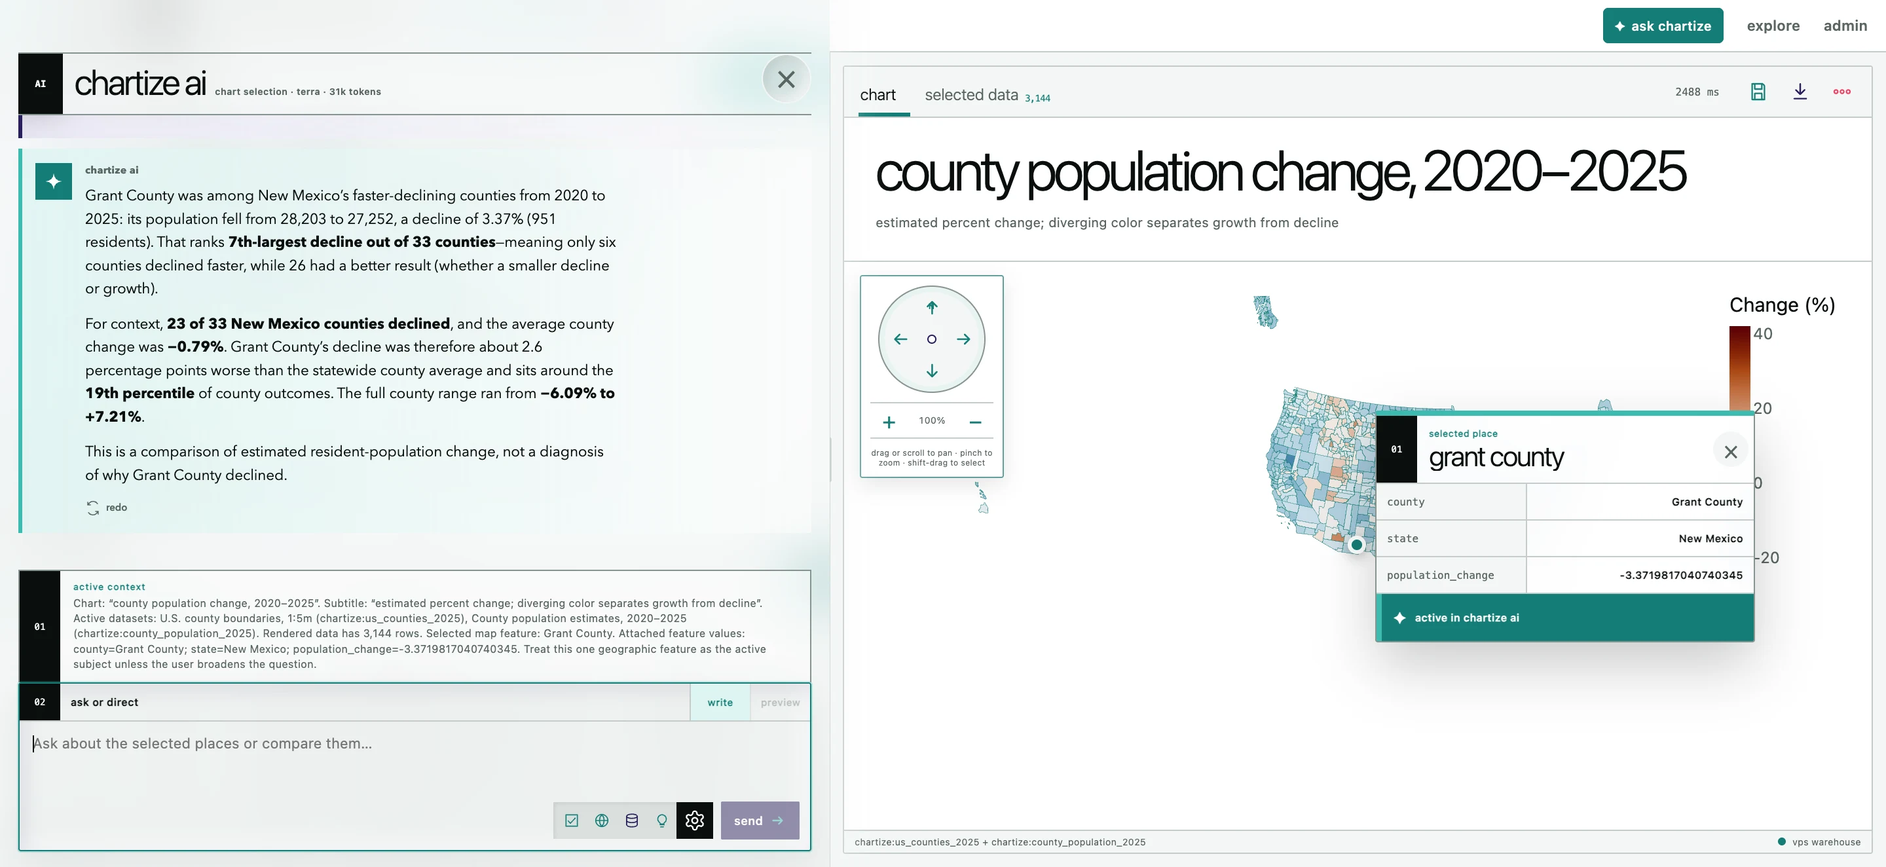
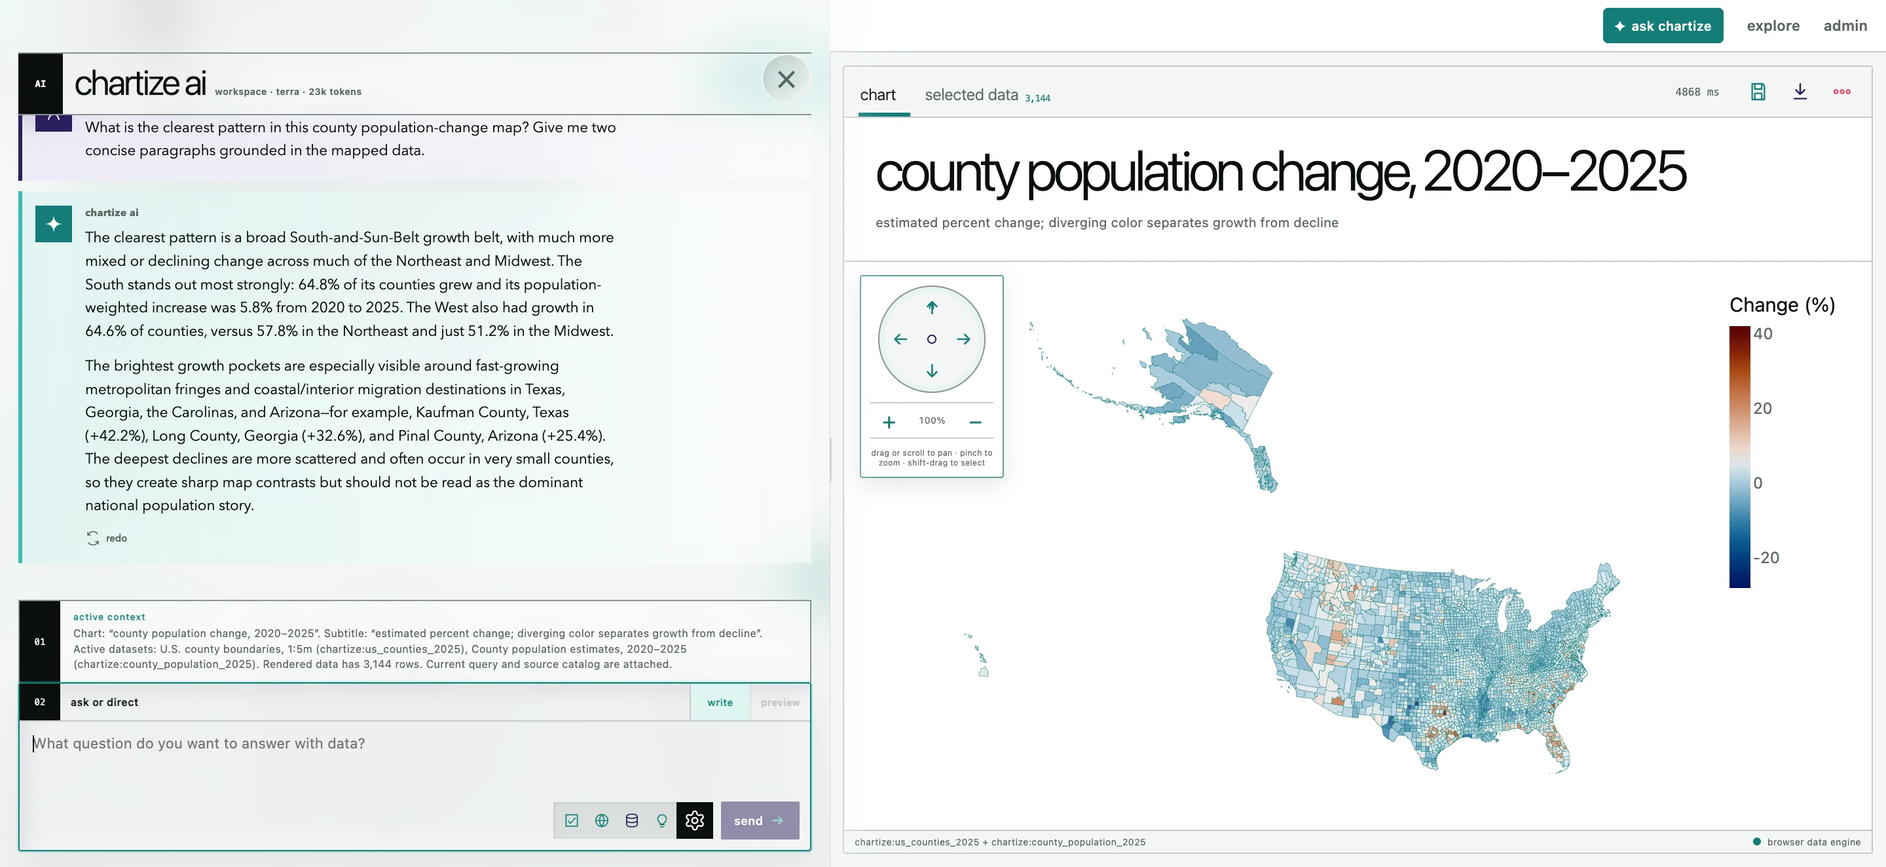
docs: describe the local-first Chartize boundary
Document worker-owned Dexie storage, mutable per-workspace data, the read-only artifact service, browser acceptance evidence, and the VPS preview flow. Refresh the workspace and grounded-AI screenshots.

diff --git a/README.md b/README.md
@@ -1,34 +1,38 @@
 # Chartize
 
-A self-hosted data warehouse and GGSQL visualization workspace. It combines a native DuckDB/GGSQL service for published data with a browser-local GGSQL WASM path for private files.
+Chartize is a self-hosted, local-first GGSQL visualization studio for civic, polling, Census, election, economic, and geographic data.
 
-The explorer—not a promotional homepage—is the product surface. It is a cursor-led DWIM workspace: Monaco GGSQL stays primary, while sources, fields, visual parameters, table ranges, and chart ranges expose contextual controls at the selection. The raw source stream, query result, and chart remain visible in three resizable panes. It also supports Vega-Lite rendering, PNG/SVG/share-card export, local workspace persistence, warehouse queries, and opt-in AI assistance.
+The explorer is the product surface. Monaco GGSQL stays primary while sources, fields, visualization parameters, table ranges, chart ranges, and map features expose contextual controls around the current selection. The code, source table, and rendered result live in three resizable panes.
 
 ![Chartize workspace with GGSQL, source data, and a linked chart](./docs/images/chartize-workspace.webp)
 
-## Execution boundary
+## Local-first execution
 
-| Input | Where it is stored | Where GGSQL runs |
+| Input | Storage | Execution |
 | --- | --- | --- |
-| Published Census, polling, election, or geographic datasets | Versioned Parquet plus provenance files on the VPS | Native Rust GGSQL + DuckDB on the VPS |
-| Visitor CSV, TSV, JSON/NDJSON, Parquet, GeoJSON, or zipped Shapefile | Browser memory; IndexedDB only after **Save local** | GGSQL WASM in a Web Worker |
-| AI query generation | Only schema by default; up to 20 preview rows after opt-in | Next.js server route using OpenAI or Azure OpenAI |
-| Multimodal chart critique | Rendered chart and query after a confirmation dialog | Next.js server route |
+| Published datasets | Canonical, versioned Parquet on the VPS; exact artifact bytes retained by worker-owned Dexie/IndexedDB | `ggsql-wasm` in a Web Worker |
+| Visitor CSV, TSV, JSON/NDJSON, Parquet, GeoJSON, or zipped Shapefile | Worker-owned Dexie/IndexedDB, private to this browser | The same browser worker |
+| Derived tables and mutations | An isolated, mutable engine context for each workspace | The same browser worker |
+| AI visualization or analysis request | One conversation per workspace; schema and enabled context are relayed to the model | Any requested data query runs in the browser, then its bounded result returns to the AI relay |
 
-The server is not merely a file API. It executes shared queries, enforces read-only policy, owns catalog metadata, profiles imports, publishes stable views, and rolls datasets back between immutable versions.
+React and Zustand do not know that IndexedDB or the data service exists. They send typed commands to one browser worker. When GGSQL first references `chartize:<slug>`, that worker resolves the catalog version, checks Dexie, downloads the exact Parquet artifact only when missing, stores it, and registers a copy in the active workspace's engine context. Subsequent workspaces and sessions reuse the canonical bytes locally. A workspace may freely create, update, rename, or derive local tables without changing that baseline or another workspace.
 
-Chartize AI is one workspace-scoped Terra conversation, not a separate generator bolted onto each pane. Cursor ranges, selected rows, and individual geographic features can become its active context; with permission it can query bounded warehouse data or use grounded web search.
+The Rust service has a deliberately small public surface: catalog metadata, exact dataset-version downloads, and steward-only ingestion and rollback. It never accepts arbitrary SQL from the browser or from Chartize AI.
 
-![Chartize AI comparing a selected county with its statewide peers](./docs/images/chartize-ai-county-context.webp)
+Chartize AI is a workspace-scoped Terra conversation. It receives the active query, chart description, catalog schemas, and user-enabled selection context. If it needs exact values, it emits a bounded data request; the worker runs it in the same workspace engine and continues the model turn. Generated GGSQL is tried locally, and an engine diagnostic can trigger up to two bounded repair passes.
+
+![Chartize AI explaining a county population-change map with browser-grounded statistics](./docs/images/chartize-ai-county-context.webp)
 
 ## Stack
 
-- Frontend: Next.js 16, React 19, Monaco, Vega/Vega-Lite, `ggsql-wasm`, and a Zod-inferred Zustand workspace store
-- Browser conversion: `hyparquet-writer`, a GeoJSON-to-WKB encoder, and `shpjs`
-- Warehouse API: Rust, Axum, GGSQL 0.4.1, DuckDB
-- Storage: one DuckDB catalog plus Zstd-compressed Parquet and original provenance files under `data/`
-- AI: one Responses API conversation per workspace, using `gpt-5.6-terra`; optional Azure OpenAI deployment
-- Deployment: Docker Compose and Caddy on a single VPS
+- Next.js 16, React 19, Monaco, Vega/Vega-Lite, Vanilla Extract
+- Zod-validated Zustand workspace documents and actions
+- `ggsql-wasm` plus an in-browser SQL engine in a Web Worker
+- Dexie/IndexedDB, owned only by the worker, for canonical Parquet bytes, local uploads, catalog metadata, and saved workspace documents
+- Rust and Axum for catalog, typed Parquet delivery, imports, profiling, and rollback
+- DuckDB only inside the steward service for ingestion/catalog metadata; normalized datasets are Parquet
+- OpenAI Responses API with `gpt-5.6-terra`
+- Docker Compose with Caddy, or host Nginx with Basic Auth, on one VPS
 
 ## Run locally
 
@@ -41,69 +45,59 @@ pnpm fetch:spatialite
 ADMIN_TOKEN=local-dev-token pnpm dev
 ```
 
-Open `http://localhost:3000/explore`. The engine listens on `127.0.0.1:8787`; use `local-dev-token` on `/admin`. The built-in penguins source works without importing data or configuring AI.
+Open `http://localhost:3000/explore`. The data service listens on `127.0.0.1:8787`; use `local-dev-token` on `/admin`.
 
-In a second terminal, publish the six-dataset starter warehouse:
+In a second terminal, publish the starter datasets:
 
 ```bash
 ADMIN_TOKEN=local-dev-token pnpm data:seed
 ```
 
-The penguins entry is an embedded GGSQL engine smoke test, not warehouse data. The full prioritized acquisition list and refresh notes are in [`datasets/README.md`](./datasets/README.md).
+The embedded penguins table is an engine smoke test, not a published dataset. The acquisition list and refresh notes are in [`datasets/README.md`](./datasets/README.md).
 
-For AI, put `OPENAI_API_KEY` in the environment used by Next.js. For Azure set `AI_PROVIDER=azure` and supply the Azure endpoint, key, deployment name, and supported API version. A deployment name is not a universal model entitlement: confirm the model is available in the Azure region/subscription before depending on student credits.
+For AI, set `OPENAI_API_KEY` in the environment used by Next.js. The key remains server-side. The browser receives only the structured AI result; the AI route receives bounded browser query results only when the enabled data-access option permits them.
 
-## VPS deployment
+## VPS preview
 
 ```bash
 cp .env.example .env
-# Set a long random ADMIN_TOKEN, SITE_ADDRESS, and optionally an AI provider key.
+# Set a long ADMIN_TOKEN, SITE_ADDRESS, and OPENAI_API_KEY.
 docker compose up --build -d
 ```
 
-Set `SITE_ADDRESS=studio.example.com` for automatic HTTPS. Only Caddy is public; the warehouse engine remains inside the Compose network and the web server proxies `/engine/*` at runtime.
+Set `SITE_ADDRESS=studio.example.com` for Caddy-managed HTTPS. For host Nginx and Basic Auth, follow [`docs/VPS_DEPLOYMENT.md`](./docs/VPS_DEPLOYMENT.md).
 
-For a preview subdomain behind host Nginx and Basic Auth, use [`docs/VPS_DEPLOYMENT.md`](./docs/VPS_DEPLOYMENT.md). It includes the archive/copy flow, private Compose services, one-shot warehouse seeding, TLS, credentials, backups, and updates.
-
-The default 70 GB VPS layout is deliberately simple:
+The storage layout fits a single 70 GB VPS:
 
 ```text
 data/
-  warehouse.duckdb
+  chartize.duckdb
   datasets/<slug>/<version>/
     <original upload>
     data.parquet
 ```
 
-Back up `data/` as one unit. Imports refuse to begin unless there is room for the upload, normalized copy, and a 500 MB reserve. Set `MAX_IMPORT_BYTES` below your reverse-proxy limit.
+Back up `data/` as one unit. Imports retain the original, normalize a canonical version to Parquet, profile it, and atomically activate that version. Rollback reactivates the previous version without deleting either copy. These published files are baselines; browser workspaces remain independently mutable.
 
-## Steward workflow
+## Security boundary
 
-1. Visit `/admin` and enter `ADMIN_TOKEN`.
-2. Upload CSV/TSV, JSON/NDJSON, Parquet, GeoJSON, GeoPackage, FlatGeobuf, KML, Shapefile, or a Shapefile ZIP.
-3. Add title, stable lowercase slug, source, license, and attribution.
-4. The service saves the original, normalizes a version to Parquet, profiles its schema and row count, and atomically points the stable view at it.
-5. **Rollback** moves the view to the most recent inactive version without deleting either version.
-
-Geo formats are read with DuckDB Spatial and published with WKB geometry so GGSQL can safely move the data through Arrow.
-
-## Query and privacy safeguards
-
-- Warehouse requests must validate as GGSQL, contain a visualization, and use a single `SELECT`/`WITH` statement.
-- DDL/DML, extension loading, file readers, remote URLs, attach/copy/export operations, and pragmas are blocked in public queries.
-- The browser worker has a 100 MB per-file safety limit; the VPS limit is separately configurable.
-- AI calls use `store: false`. Row samples are omitted unless the user checks the consent control; chart images require an additional confirmation.
-- Admin imports require `x-admin-token`, entered at the steward screen and never stored by the app.
+- Public browser code can request only a catalog entry or an exact `{slug, version}` Parquet artifact.
+- `/api/query`, `/api/validate`, and `/api/ai/query-data` do not exist on the Rust service.
+- SQL and GGSQL execute in the browser worker; local derived tables and mutations cannot modify VPS data.
+- Only the worker can access Dexie or request catalog/data artifacts. React and Zustand cannot issue data-service requests.
+- The browser worker has a 100 MB per-file import guard; steward import limits are configured separately.
+- AI calls use `store: false`. Sample rows are omitted unless the user enables them.
+- Steward imports require `x-admin-token`, entered on `/admin` and not persisted by the application.
 
 ## Verification
 
 ```bash
-pnpm typecheck
-pnpm test
-pnpm build
-cargo check --manifest-path services/engine/Cargo.toml
+pnpm --filter @chartize/web typecheck
+pnpm --filter @chartize/web test
+pnpm --filter @chartize/web build
+cargo test --manifest-path services/engine/Cargo.toml
 ```
 
-The `.cargo/config.toml` uses the generated parser included with `tree-sitter-ggsql`, so a global Tree-sitter CLI is not required.
+The browser acceptance pass covers cold and warm `chartize:` loads, workspace mutation isolation, and a local CSV upload that Chartize AI cleans into a derived table before source deletion resets that workspace. The CSV path performs no catalog or dataset-artifact request.
 
-The post-pivot architecture review, resolved hazards, and remaining extraction seams are documented in [`docs/CODE_AUDIT.md`](./docs/CODE_AUDIT.md).
+The post-pivot boundary review is in [`docs/CODE_AUDIT.md`](./docs/CODE_AUDIT.md).

diff --git a/docs/CODE_AUDIT.md b/docs/CODE_AUDIT.md
@@ -1,31 +1,46 @@
 # Code audit
 
-This audit follows the rapid product pivots that produced the current DWIM workspace. The runtime now has one source of truth for workspace state, one Chartize AI conversation per workspace, and a deliberately narrow boundary between browser-private data and the VPS warehouse.
+This audit follows the product pivots that produced the current cursor-led workspace. The runtime now has one Zod-validated Zustand source of truth, one Chartize AI conversation per workspace, and one browser-worker execution path for published and visitor data.
 
 ## Current boundaries
 
-- `lib/workspace/store.ts` owns Zod-validated workspace documents and all cross-pane actions. Switching workspaces captures and restores the query, chart state, table state, selections, map viewport, pane ratios, and independent AI history.
-- `components/explorer.tsx` is the coordinator. It resolves namespaced sources, selects the local or warehouse execution path, rejects mixed-browser/server joins, and guards asynchronous results with monotonically increasing request IDs.
-- `components/chart-view.tsx` owns Vega embedding, exports, range gestures, map pan/zoom, and mark selection. It reports selections upward instead of maintaining a competing copy of workspace state.
-- `lib/ai/*` builds a compact catalog snapshot, supplies one read-only warehouse tool, runs a single stateless Responses API turn, validates structured output, and performs one focused GGSQL repair when the real engine rejects syntax.
-- `services/engine` is the authority for imports, immutable dataset versions, previews, GGSQL validation/execution, and bounded AI data queries.
+- `lib/workspace/store.ts` owns validated workspace documents and cross-pane actions: query scheduling, source and visual edits, lazy table reads, selections, AI turns, browser save/restore, and workspace switching. It calls a typed browser-runtime facade and contains no network or storage implementation.
+- `components/explorer.tsx` is a 116-line composition root. The code, table, result, AI overlay, and selection behavior live in focused `workspace-*` components; their remaining local state is ephemeral DOM/editor behavior.
+- `lib/local/browser-runtime.ts` is the main-thread boundary. It validates commands and delegates them to `LocalEngineClient`; it does not expose URLs or IndexedDB.
+- `workers/ggsql.worker.ts` is the only data execution and persistence surface used by the explorer. It owns catalog hydration, local uploads, GGSQL, SQL, workspace persistence, and AI data rounds.
+- `lib/local/worker-database.ts` owns Dexie tables for the catalog, exact canonical Parquet artifacts, local-source bytes, and saved workspace documents.
+- `lib/local/worker-source-registry.ts` resolves namespaces. `chartize:` misses request only a typed catalog or exact `{slug, version}` artifact; `user:` sources never use the data service.
+- `lib/local/workspace-engine.ts` gives every workspace its own mutable `GgsqlContext`. All workspaces may reuse the same canonical bytes, but mutations and derived tables remain isolated.
+- `components/chart-view.tsx` owns Vega embedding, exports, range gestures, map pan/zoom, and mark selection. It reports selections to Zustand rather than keeping competing workspace state.
+- `app/api/ai/query` is a structured model relay. The worker may send it bounded context and satisfy a model data request locally, but the relay cannot query VPS data directly.
+- `services/engine` owns catalog metadata, exact Parquet-version downloads, steward imports, profiling, and rollback. It has no public arbitrary-SQL route.
 
 ## Hazards removed
 
-- Pivot-era explanation/generation schemas and the separate pseudo-agent paths were removed. All AI entry points continue the same workspace conversation.
-- Component-local cross-pane state was consolidated into Zustand; persisted shapes and defaults remain Zod-validated.
-- Catalog, source-page, executed-query, and selected-feature requests are coalesced and bounded with small LRU-style caches. Failed promises evict themselves.
-- Blank workspaces no longer inherit the default presidential chart; empty GGSQL renders a neutral grid and remains a valid workspace state.
-- Stale asynchronous query, source-page, and feature-detail responses cannot overwrite a newer user action.
-- Public and AI SQL paths enforce a single read-only `SELECT`/`WITH` statement on both the Next and Rust boundaries. Mutation, extension loading, attachment, file/network readers, dynamic table readers, metadata scans, and internal catalog access are blocked.
-- Map clicks remain mark selections until pointer movement crosses the pan threshold. Normal mouse jitter neither captures the pointer nor clears the selected feature.
-- PNG and SVG exports are generated from the active Vega view and include the active title and subtitle.
+- The native and browser query split was removed. A `chartize:` reference hydrates the exact Parquet version into the same browser engine used by `user:` and embedded sources.
+- Browser-to-server raw SQL, remote validation, and server-side AI data-query routes were removed.
+- The obsolete regex read-only validator was removed. Local setup statements and mutations are allowed inside an isolated workspace without expanding server authority.
+- Query timers, async sequence guards, file registration, table caches, AI repair flow, and persistence were moved out of React callback closures and into stable Zustand actions.
+- Removing a local source resets every workspace engine that registered it, so derived tables cannot outlive their source accidentally.
+- Blank workspaces no longer inherit the default chart; empty GGSQL produces a neutral grid and remains valid.
+- Stale query, table-page, and feature-detail results cannot overwrite a newer action.
+- Map clicks remain mark selections until pointer movement crosses the pan threshold.
+- PNG and SVG exports use the active Vega view and include the title and subtitle.
+
+## Browser acceptance evidence
+
+- Cold load: the worker requested the catalog and one exact Parquet version, persisted it in Dexie, and rendered 544 selected rows.
+- Warm reload: the same workspace rendered from Dexie with no catalog or Parquet request.
+- Mutation isolation: one workspace updated an approval table by 10 points; a new workspace still read the canonical value.
+- Local CSV: a six-row file was uploaded through the UI, cleaned by Chartize AI into an idempotent derived table, and visualized. Raw casing and nulls remained visible in the source table.
+- Local deletion: removing that CSV reset its dependent workspace and blanked the chart/table. The entire upload, AI cleanup, and deletion path made no data-service request.
+- AI repair: unsupported SQL emitted during the cleanup was diagnosed by the real browser engine and repaired into the supported SQLite-like dialect.
 
 ## Remaining seams
 
-- `Explorer` is still a large coordinator. Its responsibilities are coherent, but the next maintainability pass should extract `useQueryRunner`, `useSourceDock`, and `useChartizeConversation` without introducing another state layer.
-- The global Vanilla Extract sheet is intentionally centralized while the visual language is moving quickly. Stable component groups can later move into colocated recipes.
-- Unit coverage is strong around parsing, stores, AI context/tools, caching, geometry, and presentation transforms. Pointer arbitration and portal layering are still verified with real Chrome rather than a component-browser test harness.
-- Imports are synchronous and appropriate for a single 70 GB preview VPS. Production-scale refreshes would benefit from a persistent job queue, progress records, and resumable downloads.
+- `lib/workspace/store.ts` is intentionally the large domain coordinator. New render behavior should stay in components; new engine/storage behavior should stay behind the worker protocol rather than adding another controller.
+- The centralized Vanilla Extract sheet is practical while the visual language is changing; stable component groups can later move into colocated recipes.
+- Pointer arbitration, portal layering, worker/Dexie network behavior, and AI repair are verified in real Chrome. A component-browser harness would make those regressions faster to isolate.
+- Imports are synchronous and appropriate for a five-day preview. A larger deployment would benefit from persistent jobs and resumable acquisition.
 
-These are bounded extraction opportunities rather than hidden duplicate architectures. The current implementation keeps the hackathon path simple: one browser application, one Rust engine, one DuckDB catalog, versioned Parquet artifacts, and one AI conversation model.
+The deployment remains intentionally small: one browser application, one private catalog/data service, one metadata database, versioned Parquet artifacts, and one workspace-scoped AI conversation.

diff --git a/datasets/README.md b/datasets/README.md
@@ -1,4 +1,4 @@
-# Recommended warehouse datasets
+# Recommended Chartize datasets
 
 `recommended.json` is the acquisition manifest. It separates a small automatic starter pack from larger or credentialed datasets.
 
@@ -47,8 +47,8 @@ Use `pnpm data:seed -- --all` to additionally publish CDC PLACES plus the offici
 ADMIN_TOKEN=local-dev-token pnpm data:seed -- cdc_places_county_2025
 ```
 
-The current all-automatic warehouse contains nine published sources: the six-table starter pack, CDC PLACES county health estimates, BEA county personal income, and BEA county GDP. MIT county presidential returns are CC0 but Harvard Dataverse now requires a guestbook response before it issues a download URL; complete that interaction at the DOI and import the resulting TSV through Admin. ACS API calls require a Census key, so the profile remains a curated manual follow-up rather than pretending an unauthenticated seed is reliable.
+The current automatic catalog contains nine published sources: the six-table starter pack, CDC PLACES county health estimates, BEA county personal income, and BEA county GDP. MIT county presidential returns are CC0 but Harvard Dataverse now requires a guestbook response before it issues a download URL; complete that interaction at the DOI and import the resulting TSV through Admin. ACS API calls require a Census key, so the profile remains a curated manual follow-up rather than pretending an unauthenticated seed is reliable.
 
-The command skips slugs that are already published. Add `--force` when you intentionally want to download current upstream data and create a new warehouse version.
+The command skips slugs that are already published. Add `--force` when you intentionally want to download current upstream data and publish a new canonical version.
 
 Read each manifest entry’s notes before automating redistribution. Keep ACS margins of error, PLACES confidence limits, exact election-data versions, and the original source metadata rather than flattening those distinctions away.

diff --git a/docs/VPS_DEPLOYMENT.md b/docs/VPS_DEPLOYMENT.md
@@ -1,6 +1,6 @@
 # VPS preview deployment
 
-This path keeps Nginx and TLS on the host, publishes only Next.js on `127.0.0.1:3000`, and leaves the Rust warehouse engine private inside Docker. The `data/` directory holds the DuckDB catalog, original source artifacts, and versioned Parquet tables.
+This path keeps Nginx and TLS on the host, publishes only Next.js on `127.0.0.1:3000`, and leaves the Rust catalog/data service private inside Docker. The `data/` directory holds catalog metadata, original source artifacts, and versioned Parquet tables.
 
 ## 1. Package and copy
 
@@ -33,7 +33,7 @@ curl --fail http://127.0.0.1:3000/explore >/dev/null
 
 Do not start the `caddy` service when host Nginx owns ports 80 and 443.
 
-## 3. Seed the warehouse
+## 3. Seed the dataset catalog
 
 The Compose tool profile runs the acquisition manifest inside the same private network:
 
@@ -67,7 +67,7 @@ docker compose up --build -d engine web
 docker image prune -f
 ```
 
-Back up the warehouse as one unit while the engine is stopped or from a filesystem snapshot:
+Back up Chartize data as one unit while the service is stopped or from a filesystem snapshot:
 
 ```bash
 docker compose stop engine
